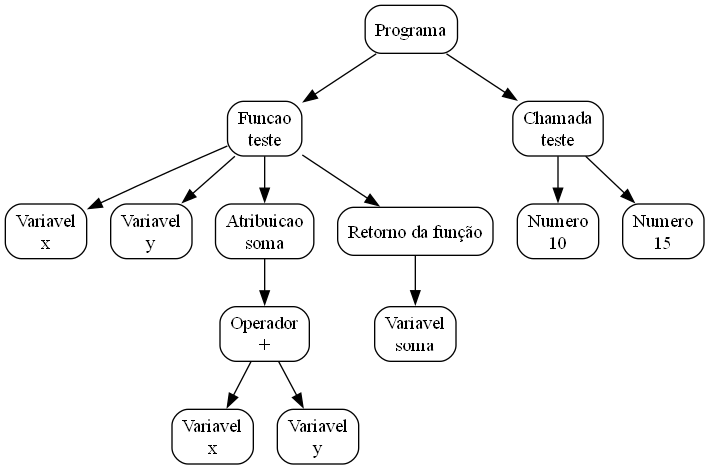
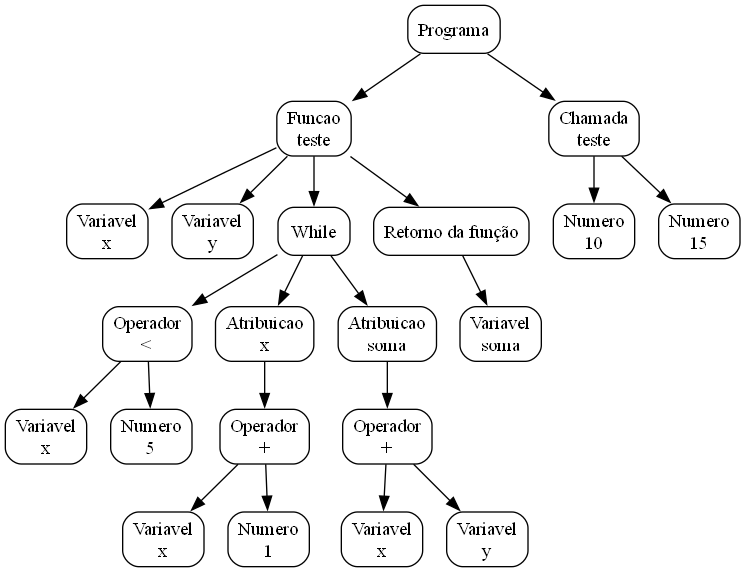
feat: updated app

diff --git a/compiler/sintatico.py b/compiler/sintatico.py
@@ -186,7 +186,24 @@ class Parser:
             f'Comando inválido: {tipo}'
         )
 
-   
+    def bloco(self):
+
+        self.consumir('INDENT')
+
+        corpo = []
+
+        while self.atual()[0] != 'DEDENT':
+
+            corpo.append(
+                self.statement()
+            )
+
+            if self.atual()[0] == 'NOVA_LINHA':
+                self.consumir('NOVA_LINHA')
+
+        self.consumir('DEDENT')
+
+        return corpo
 
     def funcao(self):
 
@@ -222,25 +239,9 @@ class Parser:
 
         self.consumir('NOVA_LINHA')
 
-        self.consumir('INDENT')
-
         self.dentro_funcao = True
 
-        corpo = []
-
-        while self.atual()[0] != 'DEDENT':
-
-            corpo.append(
-                self.statement()
-            )
-
-            if self.atual()[0] == 'NOVA_LINHA':
-
-                self.consumir(
-                    'NOVA_LINHA'
-                )
-
-        self.consumir('DEDENT')
+        corpo = self.bloco()
 
         self.dentro_funcao = False
 
@@ -257,25 +258,6 @@ class Parser:
         valor = self.expressao()
 
         return Retorno(valor)
-    
-    def bloco(self):
-
-        self.consumir('INDENT')
-
-        corpo = []
-
-        while self.atual()[0] != 'DEDENT':
-
-            corpo.append(
-                self.statement()
-            )
-
-            if self.atual()[0] == 'NOVA_LINHA':
-                self.consumir('NOVA_LINHA')
-
-        self.consumir('DEDENT')
-
-        return corpo
 
     def if_stmt(self):
 
@@ -336,11 +318,7 @@ class Parser:
 
         self.consumir('NOVA_LINHA')
 
-        self.consumir('INDENT')
-
         corpo = self.bloco()
-
-        self.consumir('DEDENT')
 
         return While(condicao, corpo)
     
